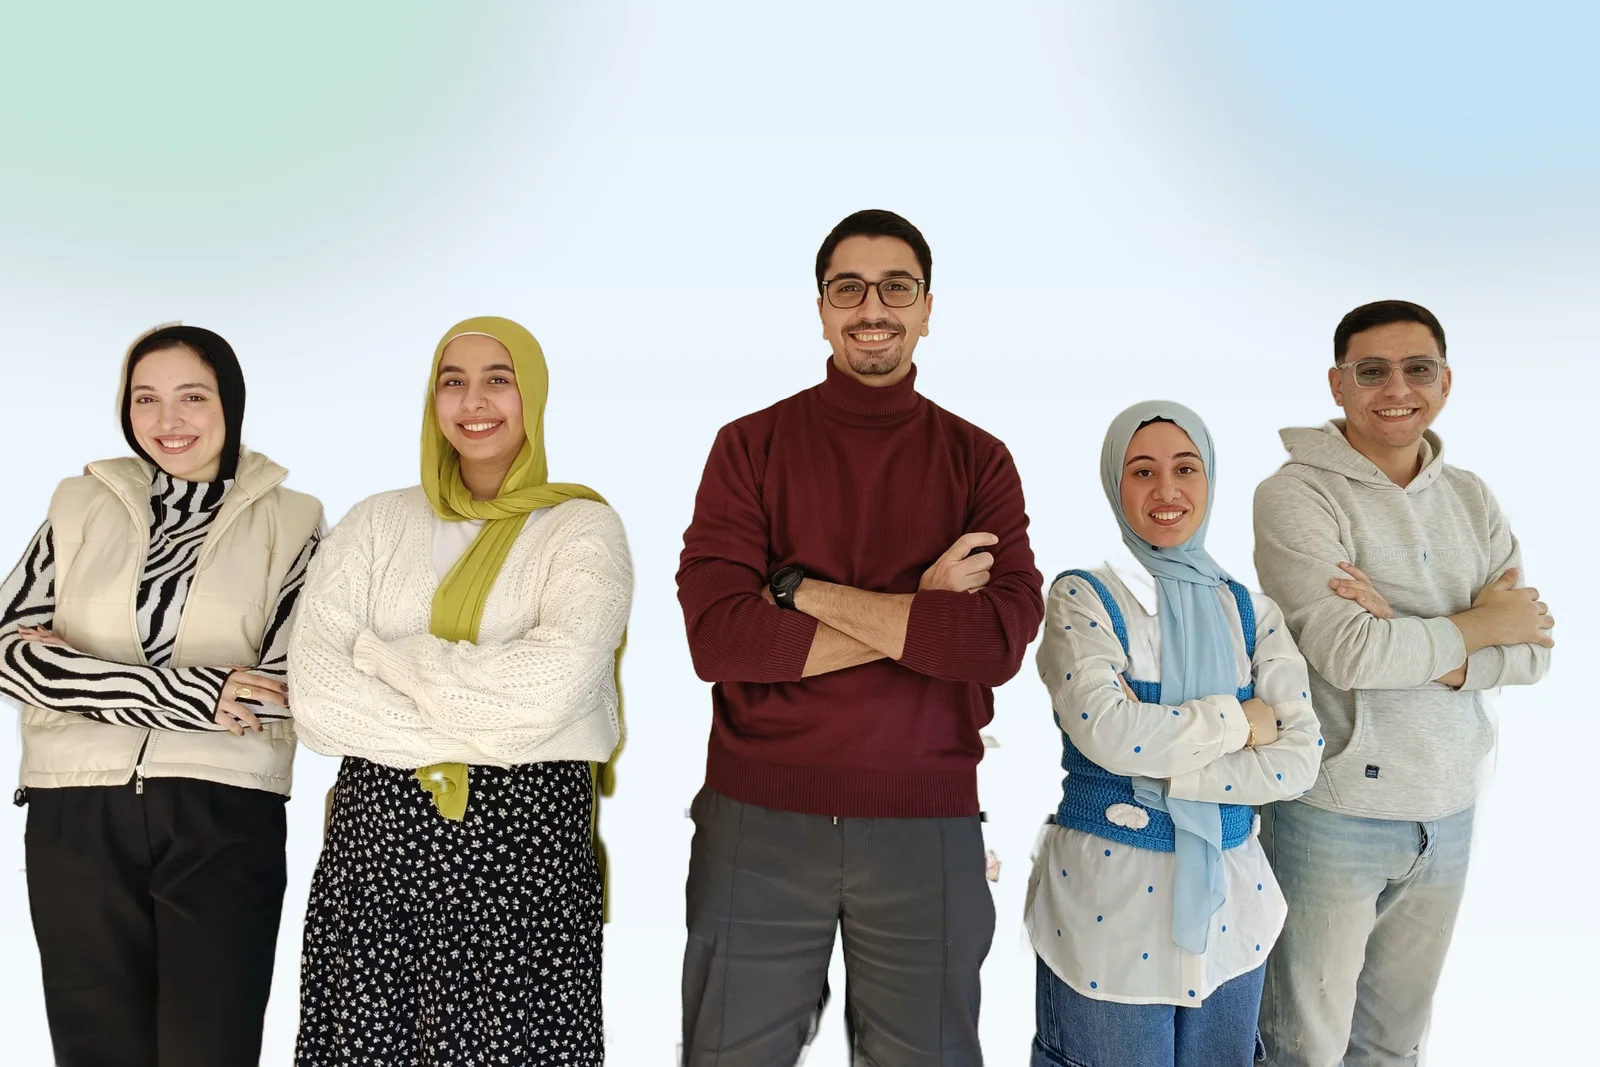
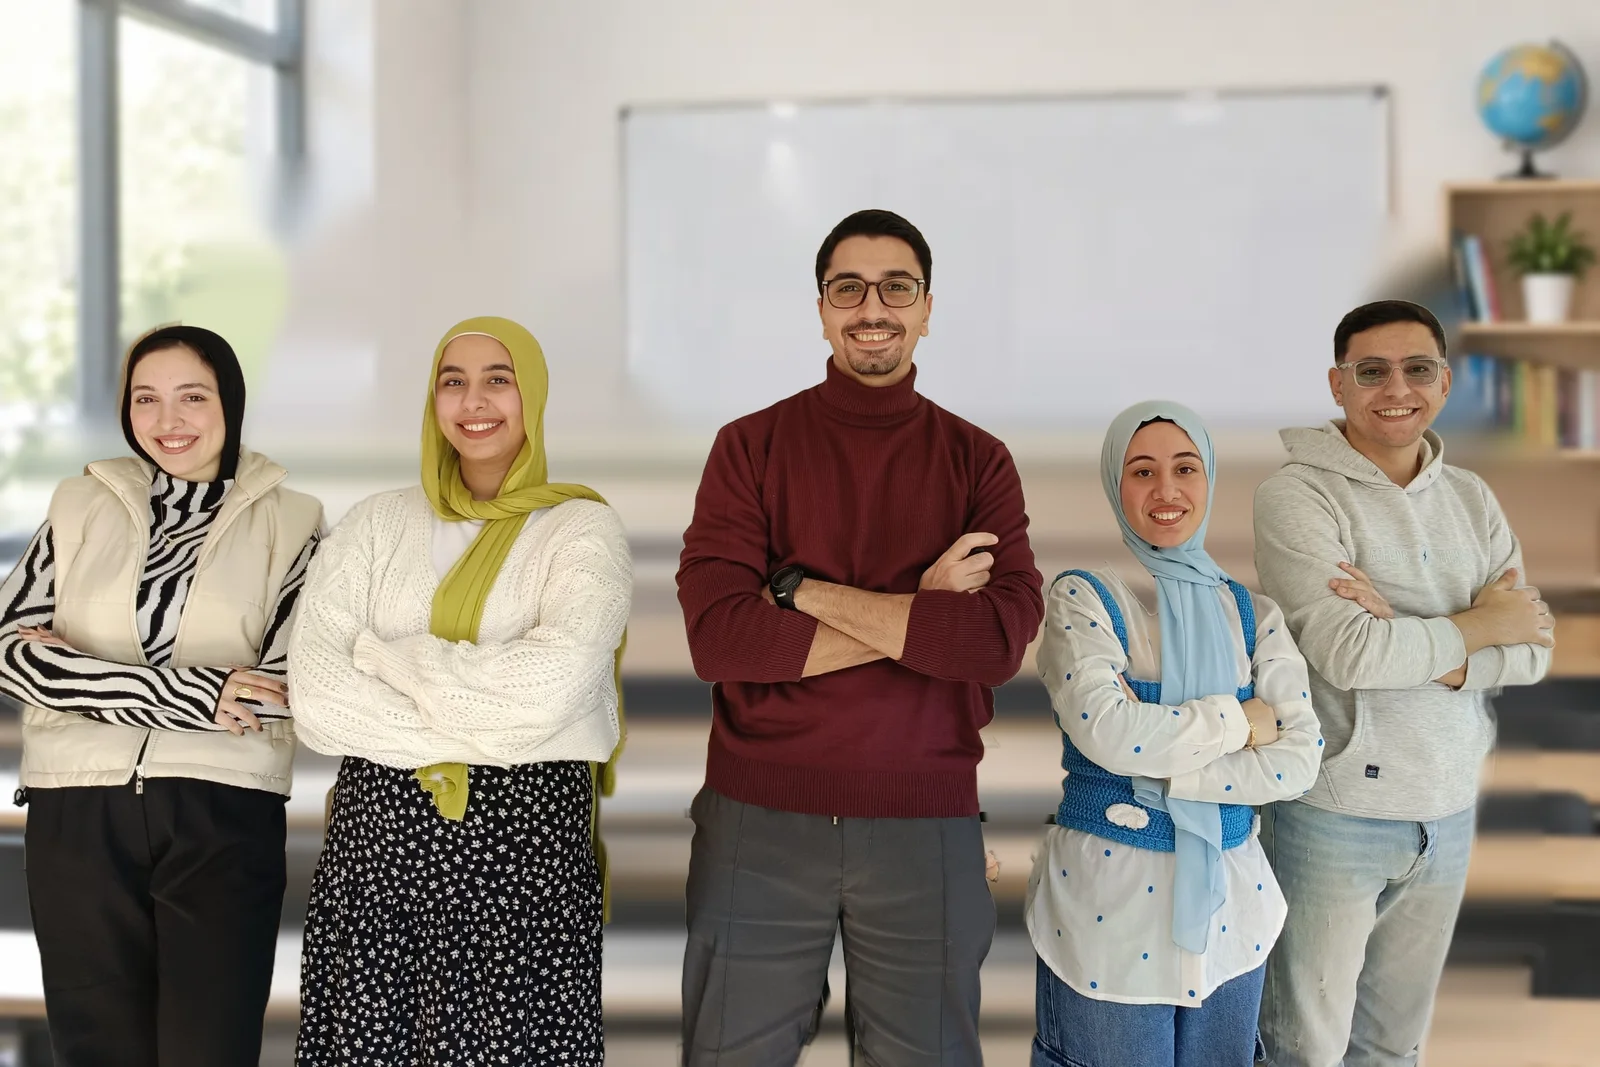
Team photo on a classroom background, hero button centred on phones
- Team photo: the real team cut-out (faces untouched) placed on the classroom background from the reference image, with the people in it removed and the room softly blurred
- Removed the instructor portrait row from the landing page (portraits stay on the track pages)
- Final call to action back to its original photo and layout
- Hero on phones: test button centred, with the "about 10 minutes" note under it

Claude-Session: https://claude.ai/code/session_0118LCqpnsoRvY3rCMNMx8cc

diff --git a/src/lib/site-content.ts b/src/lib/site-content.ts
@@ -28,7 +28,7 @@ export interface SiteContent {
   hero: { title: string; highlight: string; lead: string; cta: string; whatsapp: string; note: string };
   stats: (Tinted & { value: string; label: string })[];
   why: Head & { text: string; items: (Tinted & { title: string; text: string })[]; founder: { title: string; quote: string; name?: string } };
-  team: Head & { text: string; roles: { title: string; text: string }[]; people: string };
+  team: Head & { text: string; roles: { title: string; text: string }[] };
   tracks: Head & { text: string; tabs: string; more: string; tools: string };
   how: Head & { sub: string; cta: string; steps: { n: string; title: string; text: string }[] };
   workshop: Head & { text: string; points: { title: string; text: string }[]; place: string; address: string; mapTitle: string; mapOpen: string };
@@ -102,7 +102,6 @@ const ar: SiteContent = {
       { title: 'المدرّب', text: 'بيشرح الفكرة، ويسأل أسئلة تساعد الطفل يفكر ويوصل للحل بنفسه. الطفل هو اللي بيكتب ويجرّب.' },
       { title: 'المساعد', text: 'بيتابع الأطفال واحد واحد، وبيتدخل وقت ما حد يحتاج مساعدة، علشان محدش يفضل واقف أو محتار.' },
     ],
-    people: 'المدرّبون',
   },
   tracks: {
     kicker: 'المسارات حسب السن',
@@ -282,7 +281,6 @@ const en: SiteContent = {
       { title: 'The instructor', text: 'Explains the idea and asks questions; the child does the typing and reaches the answer.' },
       { title: 'The assistant', text: 'Goes round the children one by one, so help arrives when it is needed.' },
     ],
-    people: 'Our instructors',
   },
   tracks: {
     kicker: 'Tracks by age',

diff --git a/src/lib/media.ts b/src/lib/media.ts
@@ -42,18 +42,12 @@ export const MEDIA = {
     src: local('team-standing'),
     alt: { ar: 'فريق تدريس تك سيدز', en: 'The TechSeeds teaching team' },
   },
+  // Still stock: no TechSeeds photo for this yet.
   finalCta: {
-    src: local('team-sitting'),
-    alt: { ar: 'فريق تدريس تك سيدز حول طاولة عليها لابتوبات', en: 'The TechSeeds teaching team around a table with laptops' },
+    src: pexels(5212700, 1400),
+    alt: { ar: 'طلاب ومعلمتهم يصفقون احتفالًا في الفصل', en: 'Students and their teacher clapping to celebrate in class' },
+    credit: 'Max Fischer / Pexels',
   },
-  /** One portrait per instructor, in the order they appear on the page. */
-  instructors: [
-    { src: local('instructor-mahmoud'), name: { ar: 'محمود كمال', en: 'Mahmoud Kamal' } },
-    { src: local('instructor-george'), name: { ar: 'جورج عدلي', en: 'George Adly' } },
-    { src: local('instructor-nourhan'), name: { ar: 'نورهان عادل', en: 'Nourhan Adel' } },
-    { src: local('instructor-sarah'), name: { ar: 'سارة أشرف', en: 'Sarah Ashraf' } },
-    { src: local('instructor-shirien'), name: { ar: 'شيرين أشرف', en: 'Shirien Ashraf' } },
-  ],
   // One 3D style for all four tracks (Shirien's redesign): objects and characters,
   // not a particular child. The older flat pictures are still in /public/media.
   tracks: {
@@ -107,4 +101,4 @@ export const MEDIA = {
       alt: { ar: 'درع أمان وعلم تحدي CTF', en: 'A security shield and a CTF flag' },
     },
   },
-} satisfies Record<string, Photo | Record<string, Photo> | { src: string; name: { ar: string; en: string } }[]>;
+} satisfies Record<string, Photo | Record<string, Photo>>;

diff --git a/src/app/landing.css b/src/app/landing.css
@@ -2220,7 +2220,7 @@ html[dir='rtl'] .instructor {
 @media (max-width: 719px) {
   .hero__cta-row {
     display: grid;
-    justify-content: start;
+    justify-content: center;
     gap: 10px;
   }
 
@@ -2246,72 +2246,6 @@ html[dir='rtl'] .instructor {
     transform: none;
   }
 }
-
-/* Teaching team: one portrait per instructor under the group photo */
-.team__people {
-  list-style: none;
-  margin: 40px 0 0;
-  padding: 0;
-  display: grid;
-  grid-template-columns: repeat(5, minmax(0, 1fr));
-  gap: 18px;
-}
-
-.person {
-  display: flex;
-  flex-direction: column;
-  align-items: center;
-  gap: 10px;
-  text-align: center;
-}
-
-.person__photo {
-  display: block;
-  width: 100%;
-  max-width: 150px;
-  height: auto;
-  aspect-ratio: 1;
-  object-fit: cover;
-  border-radius: 50%;
-  border: 4px solid #ffffff;
-  box-shadow: var(--shadow-soft);
-}
-
-.person__name {
-  color: var(--navy);
-  font-size: 17px;
-}
-
-@media (max-width: 719px) {
-  .team__people {
-    display: flex;
-    flex-wrap: wrap;
-    justify-content: center;
-    gap: 18px 12px;
-  }
-
-  .person {
-    flex: 0 0 calc((100% - 24px) / 3);
-  }
-
-  .person__name {
-    font-size: 15px;
-  }
-}
-
-/* Final call to action: the wide team photo across the top, the text under it */
-.final {
-  grid-template-columns: minmax(0, 1fr);
-}
-
-.final .final__photo {
-  height: auto;
-  min-height: 0;
-  aspect-ratio: 3 / 1;
-  object-fit: cover;
-  object-position: center 30%;
-}
-
 
 .day__name,
 .day__month {

diff --git a/src/components/Landing.tsx b/src/components/Landing.tsx
@@ -160,16 +160,6 @@ export default function Landing({ lang }: { lang: Lang }) {
             </div>
           </div>
         </div>
-        <div className="wrap">
-          <ul className="team__people" aria-label={t.team.people}>
-            {MEDIA.instructors.map((p) => (
-              <li className="person" key={p.src}>
-                <img className="person__photo" src={p.src} alt="" loading="lazy" width={480} height={480} />
-                <strong className="person__name">{p.name[lang]}</strong>
-              </li>
-            ))}
-          </ul>
-        </div>
       </section>
 
       {/* 5. Tracks by age */}
@@ -306,7 +296,7 @@ export default function Landing({ lang }: { lang: Lang }) {
       <section className="section">
         <div className="wrap">
           <div className="final">
-            <img className="final__photo" src={MEDIA.finalCta.src} alt={MEDIA.finalCta.alt[lang]} loading="lazy" width={1600} height={533} />
+            <img className="final__photo" src={MEDIA.finalCta.src} alt={MEDIA.finalCta.alt[lang]} loading="lazy" width={1400} height={878} />
             <div className="final__copy">
               <Sparkle className="final__sparkle" />
               <h2 className="final__title">{t.final.title}</h2>
